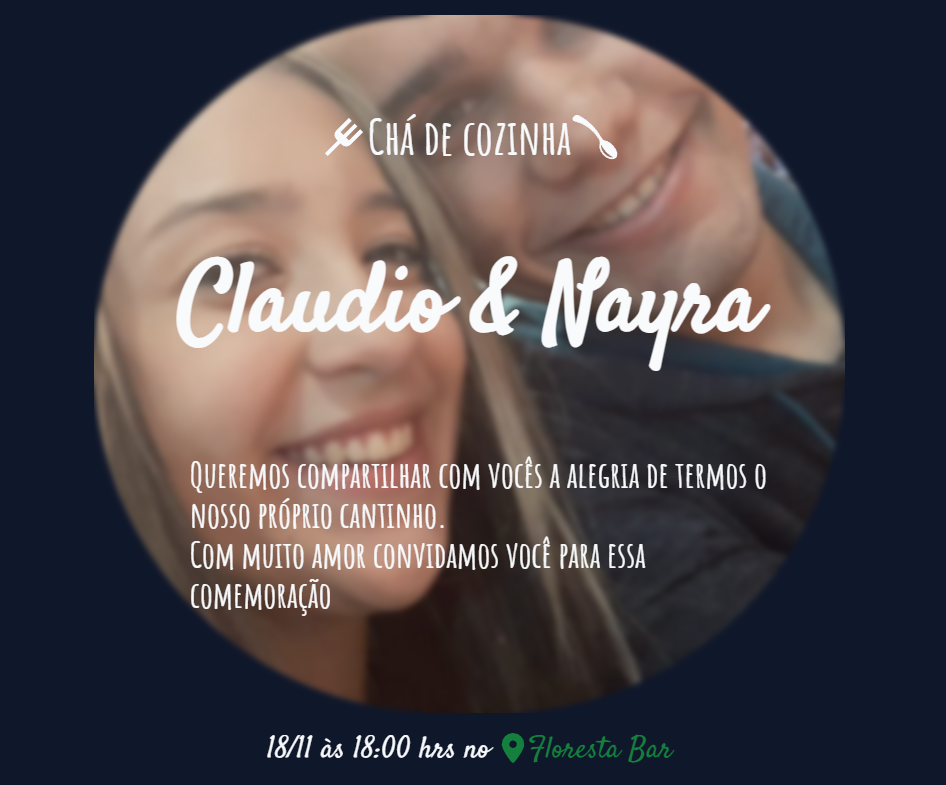
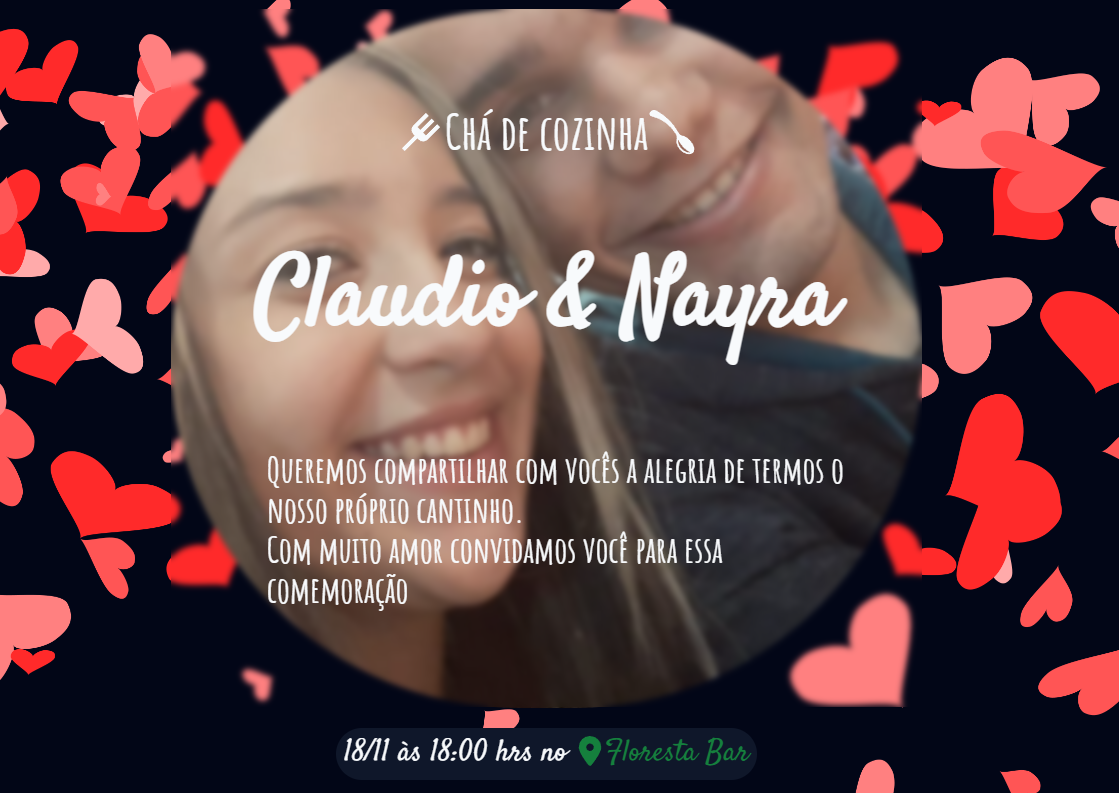
✔ Added: background for event forms

diff --git a/web/src/components/Invite.tsx b/web/src/components/Invite.tsx
@@ -34,7 +34,7 @@ export function Invite() {
         </div>
       </section>
       <section className="flex w-full flex-col items-center justify-evenly pt-5 text-slate-50 sm:justify-between">
-        <div id="location" className=" font-satisfy flex flex-col  text-center text-2xl sm:flex-row sm:text-3xl">
+        <div id="location" className="font-satisfy flex flex-col rounded-full bg-slate-900 p-4 text-center text-2xl sm:flex-row sm:p-2 sm:text-3xl">
           <div >18/11 às 18:00 hrs no </div>
           <div className='sm: ml-2'><a className="flex flex-row text-green-700 hover:underline" target="__blank" href="https://maps.app.goo.gl/GGCJYrEpCwuUN5Kg6"><FaLocationDot/>Floresta Bar</a></div>
         </div>

diff --git a/web/src/pages/Event/Steps/PickListStep.tsx b/web/src/pages/Event/Steps/PickListStep.tsx
@@ -76,11 +76,11 @@ export function PickListStep() {
               onClick={() => handleSelectItem(e.id)}
               key={index}
               className={`cursor-pointer pl-2 font-satisfy text-3xl text-slate-50 ${
-                selectedItems.includes(e.id) ? 'rounded-lg bg-slate-950' : ''
+                selectedItems.includes(e.id) ? 'rounded-lg bg-slate-700' : ''
               }`}
             >
               {selectedItems.includes(e.id) ? (
-                <div className="flex flex-row text-green-900">
+                <div className="flex flex-row text-lime-300">
                   <AiOutlineCheck />
                   {e.name}
                 </div>

diff --git a/web/src/pages/Register.tsx b/web/src/pages/Register.tsx
@@ -36,7 +36,7 @@ export function Register() {
     setTimeout(() => navigate('/event'), duration);
   }
   return (
-    <main className="flex h-[100vh] max-h-[100vh] w-full max-w-[100vw] flex-col items-center justify-center bg-slate-900">
+    <main className="flex h-[100vh] max-h-[100vh] w-full max-w-[100vw] flex-col items-center justify-center bg-slate-950 bg-[url('../assets/images/background_form.png')] bg-cover bg-center bg-no-repeat">
       <Toaster />
       <h1 className="text-center font-satisfy text-2xl text-slate-50 sm:text-4xl">
         Faça o cadastro para prosseguir, é simples e rápido

diff --git a/web/src/pages/Event/Index.tsx b/web/src/pages/Event/Index.tsx
@@ -9,7 +9,7 @@ export function Event() {
   const [amountConfirm, setAmountConfirm] = useState<boolean>(false);
 
   return (
-    <main className="flex h-[100vh] max-h-[100vh] w-full max-w-[100vw] flex-col items-center justify-center bg-slate-900">
+    <main className="flex h-[100vh] max-h-[100vh] w-full max-w-[100vw] flex-col items-center justify-center  bg-slate-950 bg-[url('../assets/images/background_form.png')] bg-cover bg-center bg-no-repeat">
       <div className="max-w-xs sm:max-w-md">
         {eventconfirm == true ? (
           presence == true && amountConfirm == false ? (

diff --git a/web/src/pages/Login.tsx b/web/src/pages/Login.tsx
@@ -32,7 +32,7 @@ export function Login() {
     setTimeout(() => navigate('/event'), duration);
   }
   return (
-    <main className="flex h-[100vh] max-h-[100vh] w-full max-w-[100vw] flex-col items-center justify-evenly bg-slate-900">
+    <main className="flex h-[100vh] max-h-[100vh] w-full max-w-[100vw] flex-col items-center justify-evenly bg-slate-950 bg-[url('../assets/images/background_form.png')] bg-cover bg-center bg-no-repeat">
       <Toaster />
       <form
         onSubmit={(e) => handleLogin(e)}

diff --git a/web/src/pages/Share.tsx b/web/src/pages/Share.tsx
@@ -30,7 +30,7 @@ export function Share() {
   }
 
   return (
-    <div className="flex min-h-screen max-w-[100vw] flex-col items-center justify-center bg-slate-900">
+    <div className="flex min-h-screen max-w-[100vw] flex-col items-center justify-center bg-slate-950 bg-[url('../assets/images/background.png')] bg-cover bg-center bg-no-repeat">
       <Invite />
       <div className="mt-12 w-48 max-w-lg">
         <Button title="Compartilhar" primary onClick={shareInvite} />
